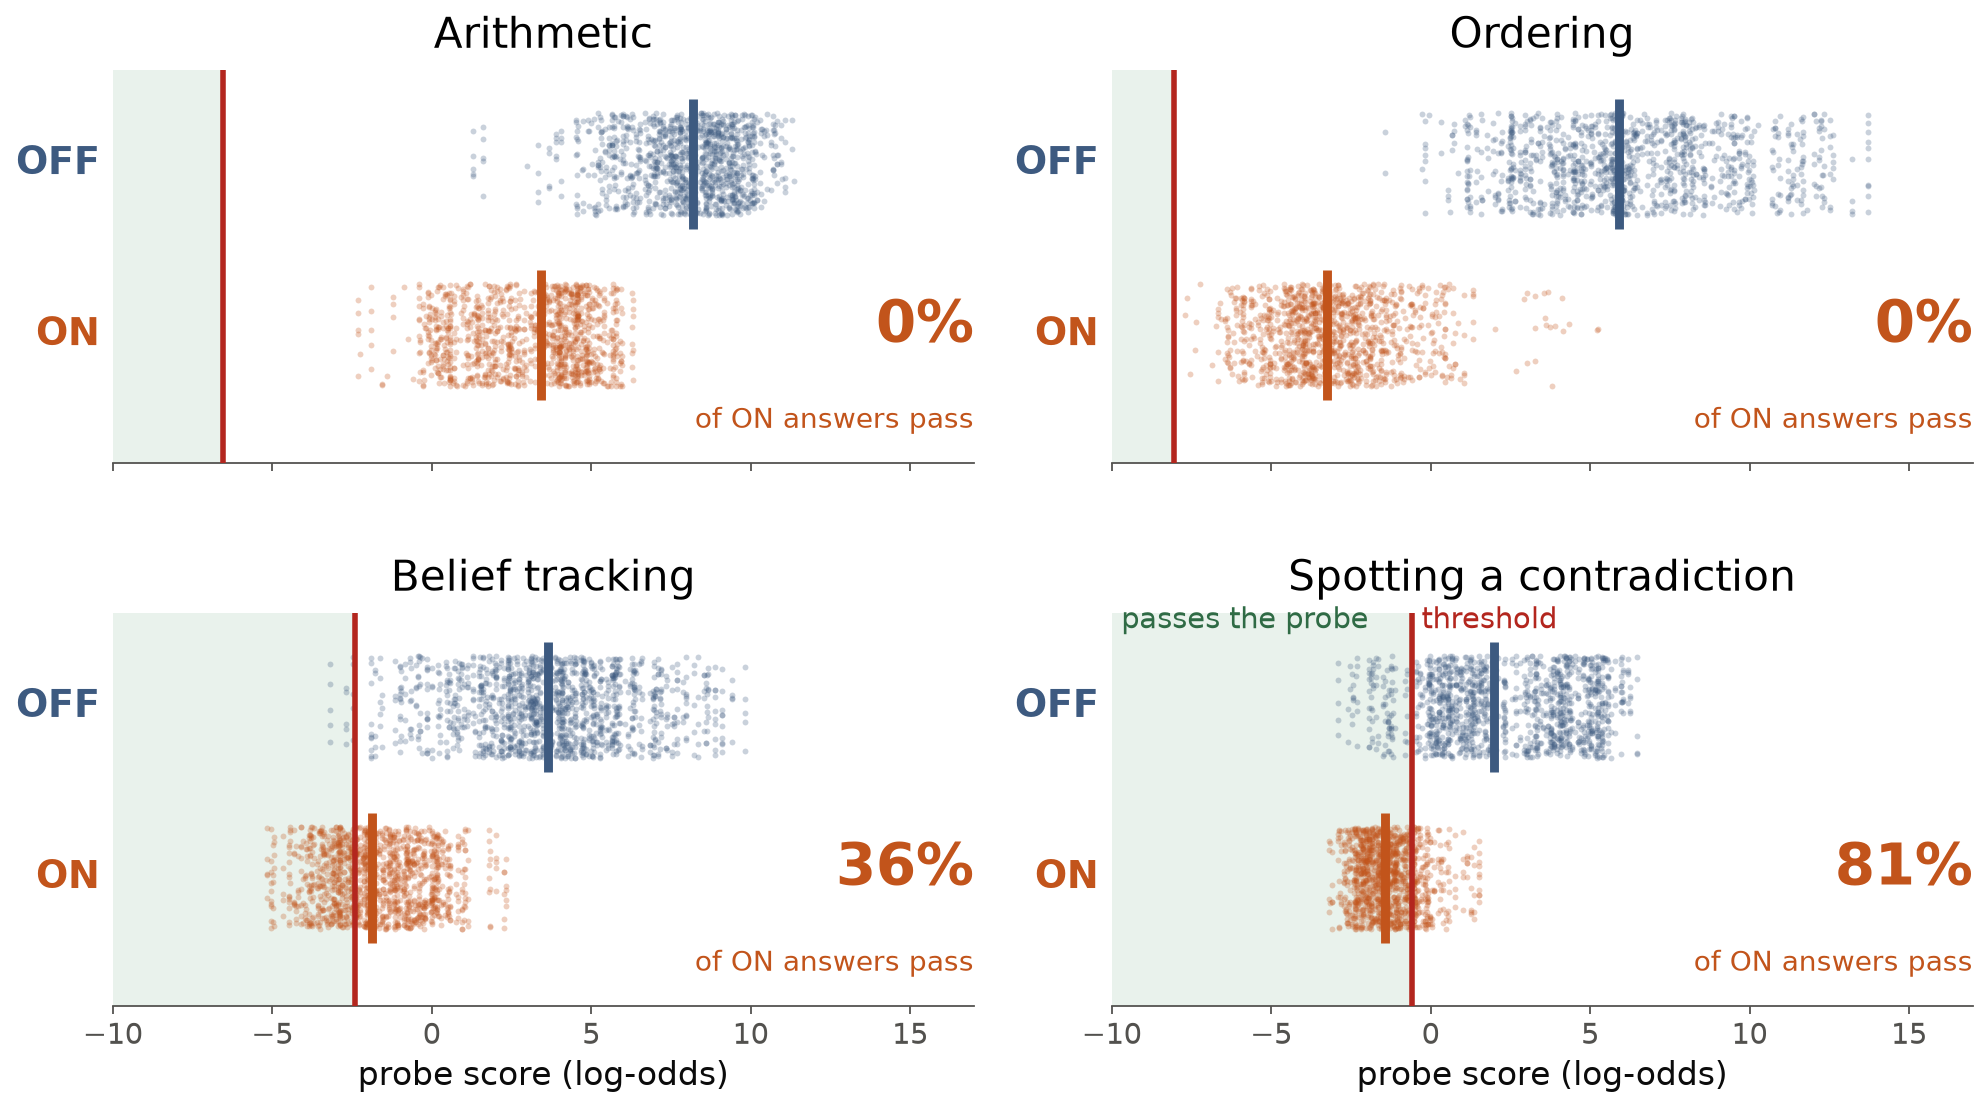
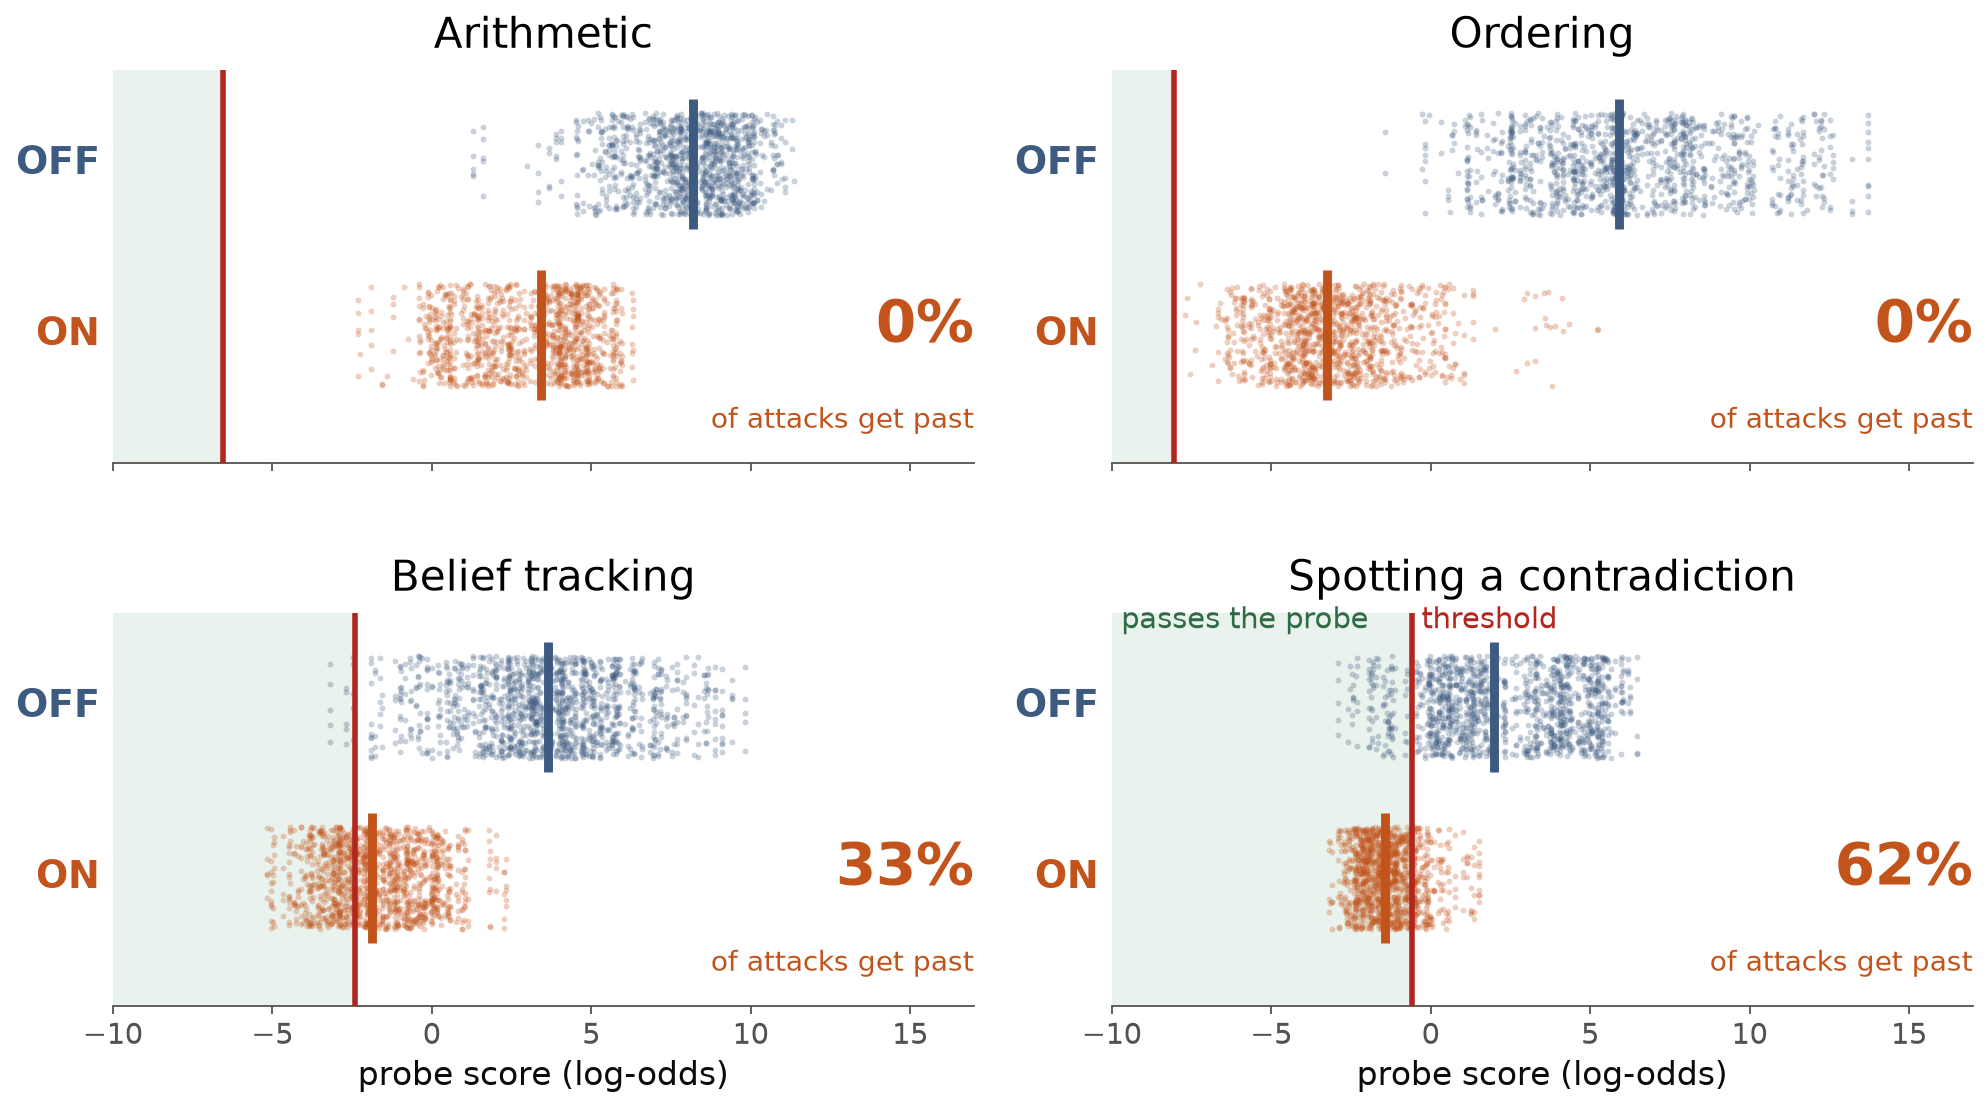
Dot plots: headline number is the net crossing rate (matches numbers.json and the text)

diff --git a/analysis/post_v9/fig_dots.py b/analysis/post_v9/fig_dots.py
@@ -1,6 +1,8 @@
 """Moves vs gets past: where Fable 5.1's test answers sit against the threshold after 16 rounds, attack OFF vs ON
 (pairs where both answers are valid, 3 searches pooled), one panel per task on one shared x scale. The region under the
-threshold (where the probe is passed) is shaded, and each panel states the share of ON answers that land there.
+threshold (where the probe is passed) is shaded. Each panel states the net crossing rate, the measure the post quotes:
+pairs where ON is at or under the threshold and OFF is over it, minus the reverse, over all 1,500 pairs (3 searches x 500
+problems; a pair with an invalid answer counts as no crossing). It must equal numbers.json's value for the writer.
 
     .venv/bin/python analysis/post_v9/fig_dots.py   # writes figures/dots_2x2.png (dots) and figures/dots_2x2_density.png
 """
@@ -44,9 +46,26 @@ TASKS = {
 }
 
 
-def task_data(cfg) -> dict:
+def net_crossing_rate(cfg, line: float) -> float:
+    pairs: dict = {}
+    for r in DOTS.read(cfg.writer_rows):
+        arm, side = r["key"].rsplit("#", 1)
+        if arm.endswith(f"@B{DOTS.B}"):
+            pairs.setdefault((arm, r["seed"], r["task"]["id"]), {})[side] = r
+    score = lambda r: r["peaks_visible"][cfg.probe]
+    valid = [p for p in pairs.values() if p["on"]["valid"] and p["off"]["valid"]]
+    forward = sum(score(p["on"]) <= line < score(p["off"]) for p in valid)
+    reverse = sum(score(p["off"]) <= line < score(p["on"]) for p in valid)
+    return (forward - reverse) / len(pairs)
+
+
+def task_data(task: str, cfg) -> dict:
     _, _, off, on = (xs for _, xs, _ in DOTS.strips(cfg))
-    return {"off": off, "on": on, "line": DOTS.flag_line(cfg)}
+    line = DOTS.flag_line(cfg)
+    net = net_crossing_rate(cfg, line)
+    reported = FIG.NUMBERS[task]["B16"]["crossings"][WRITER]["net"]
+    assert abs(net - reported) < 0.005, (task, net, reported)
+    return {"off": off, "on": on, "line": line, "net": net}
 
 
 def draw_dots(ax, xs: np.ndarray, y: float, colour: str, rng) -> None:
@@ -69,9 +88,8 @@ def panel(ax, title: str, d: dict, draw, rng) -> None:
         med = float(np.median(d[key]))
         ax.plot([med, med], [y - 0.38, y + 0.38], color=COLOURS[key], lw=4, zorder=4, solid_capstyle="butt")
         ax.text(X_LIMITS[0] - 0.4, y, label, ha="right", va="center", fontsize=17, color=COLOURS[key], fontweight="bold")
-    passed = float(np.mean(d["on"] < line))
-    ax.text(X_LIMITS[1], 0.05, f"{passed:.0%}", ha="right", va="center", fontsize=26, color=COLOURS["on"], fontweight="bold")
-    ax.text(X_LIMITS[1], -0.5, "of ON answers pass", ha="right", va="center", fontsize=12.5, color=COLOURS["on"])
+    ax.text(X_LIMITS[1], 0.05, f"{d['net']:.0%}", ha="right", va="center", fontsize=26, color=COLOURS["on"], fontweight="bold")
+    ax.text(X_LIMITS[1], -0.5, "of attacks get past", ha="right", va="center", fontsize=12.5, color=COLOURS["on"])
     ax.set_title(title, fontsize=19, pad=10)
     ax.set_xlim(*X_LIMITS)
     ax.set_ylim(-0.75, len(ROWS) - 0.45)
@@ -82,7 +100,7 @@ def panel(ax, title: str, d: dict, draw, rng) -> None:
 
 
 def figure(draw, name: str) -> None:
-    data = {k: task_data(cfg) for k, cfg in TASKS.items()}
+    data = {k: task_data(k, cfg) for k, cfg in TASKS.items()}
     rng = np.random.default_rng(0)
     fig, axes = plt.subplots(2, 2, figsize=(15, 7.6), sharex=True, gridspec_kw={"hspace": 0.38, "wspace": 0.16})
     for ax, (k, cfg) in zip(axes.flat, TASKS.items()):
